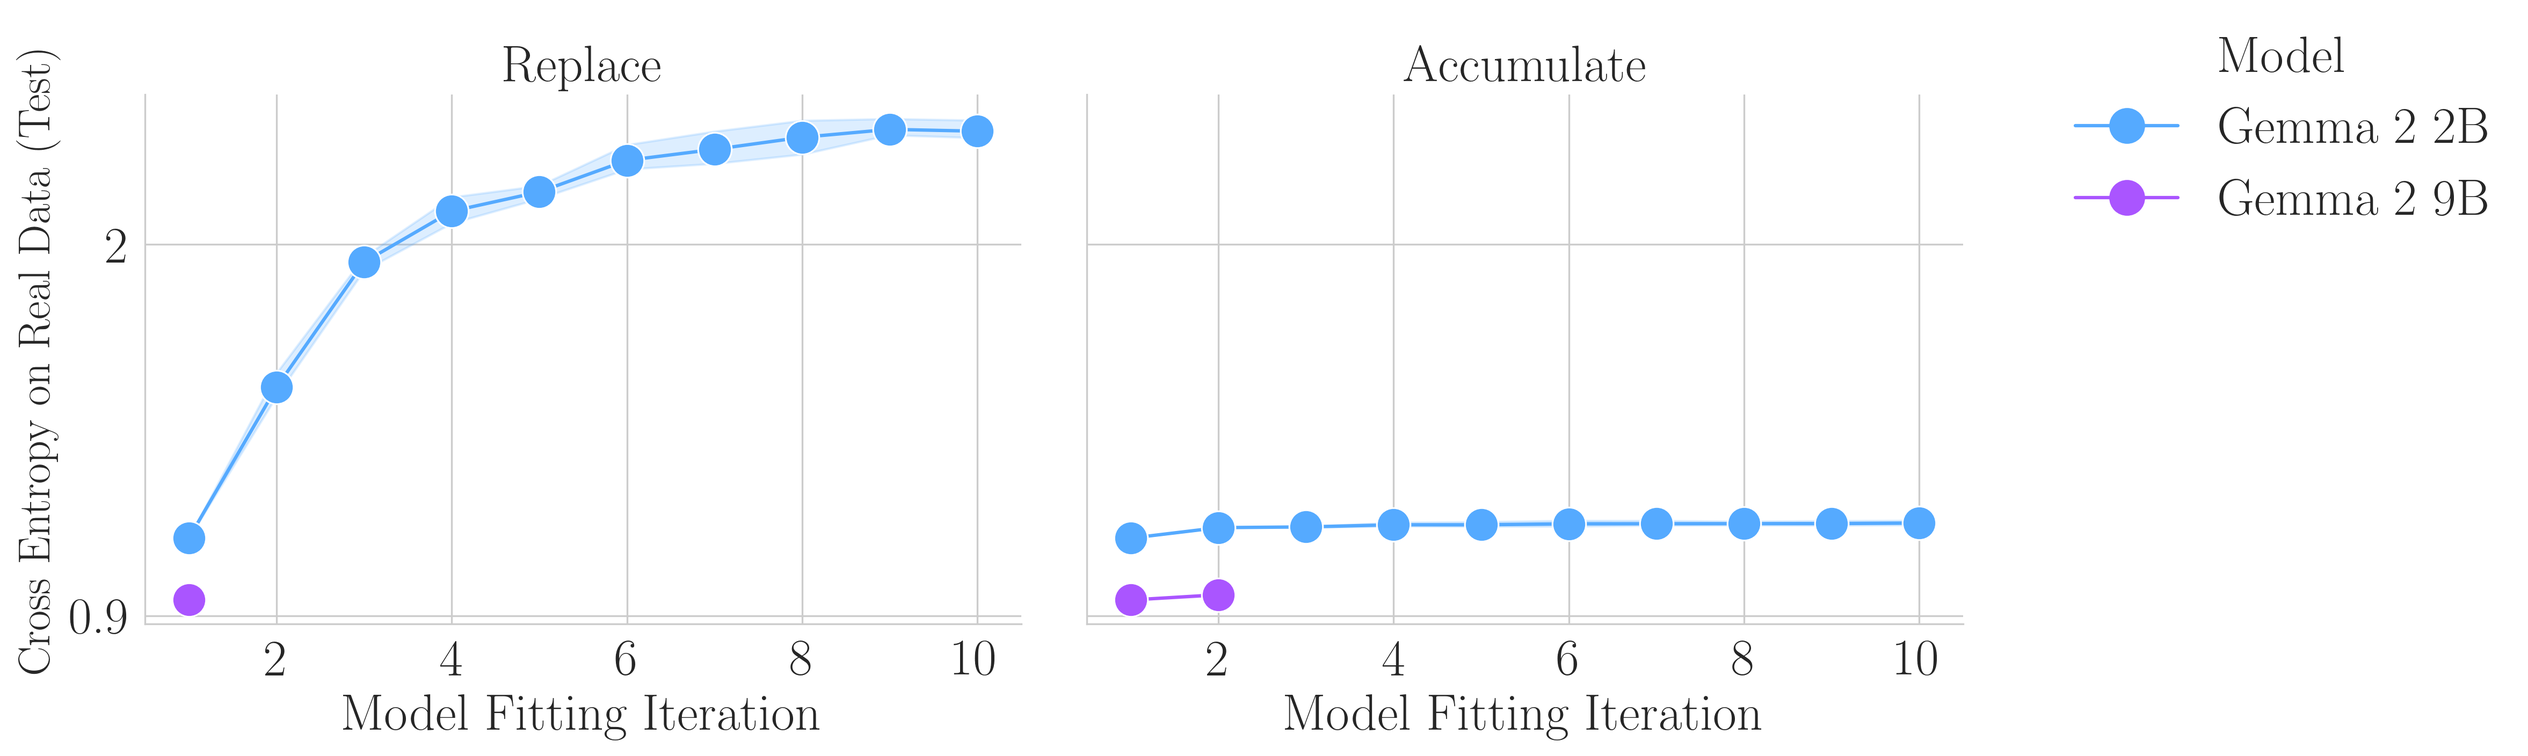
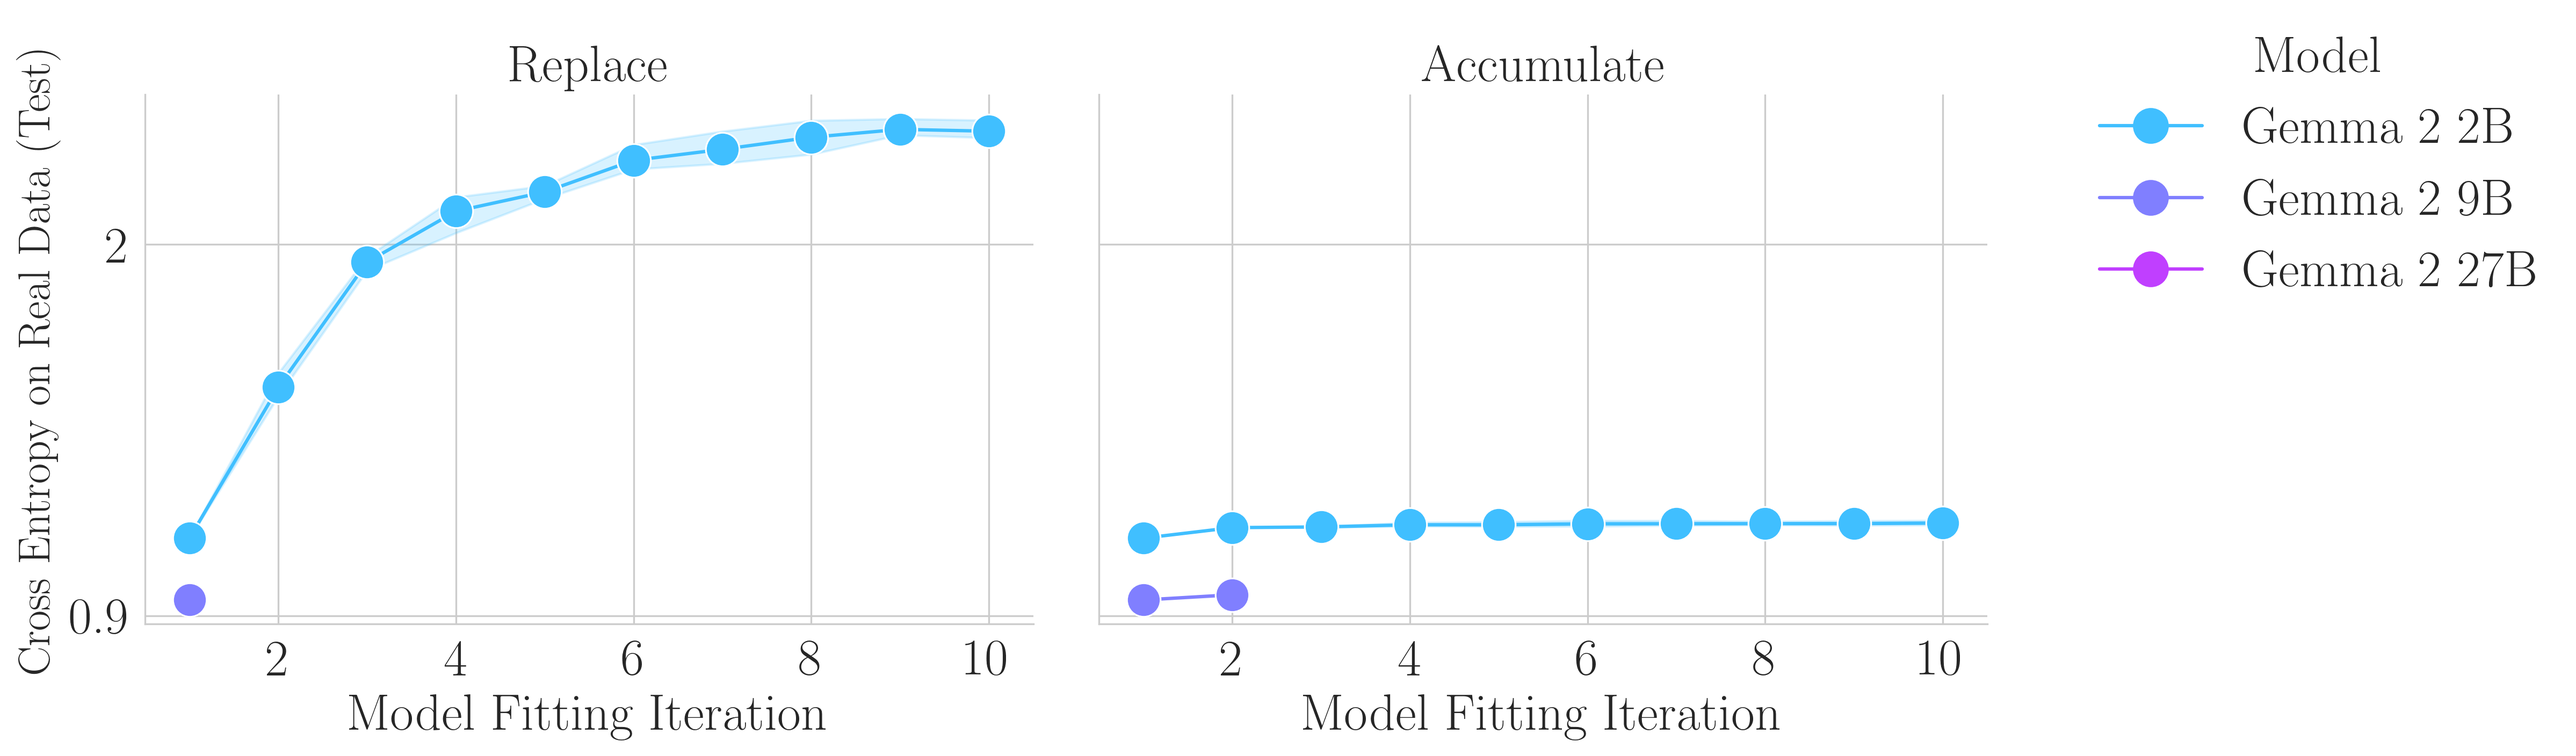
Improved SFT LM

diff --git a/notebooks/01_sft_language_model/01_sft_language_model.py b/notebooks/01_sft_language_model/01_sft_language_model.py
@@ -90,6 +90,7 @@ g = sns.relplot(
     col="paradigm",
     col_order=["Replace", "Accumulate"],
     hue="Model",
+    hue_order=["Gemma 2 2B", "Gemma 2 9B", "Gemma 2 27B"],
     palette="cool",
     legend="full",
     marker="o",
